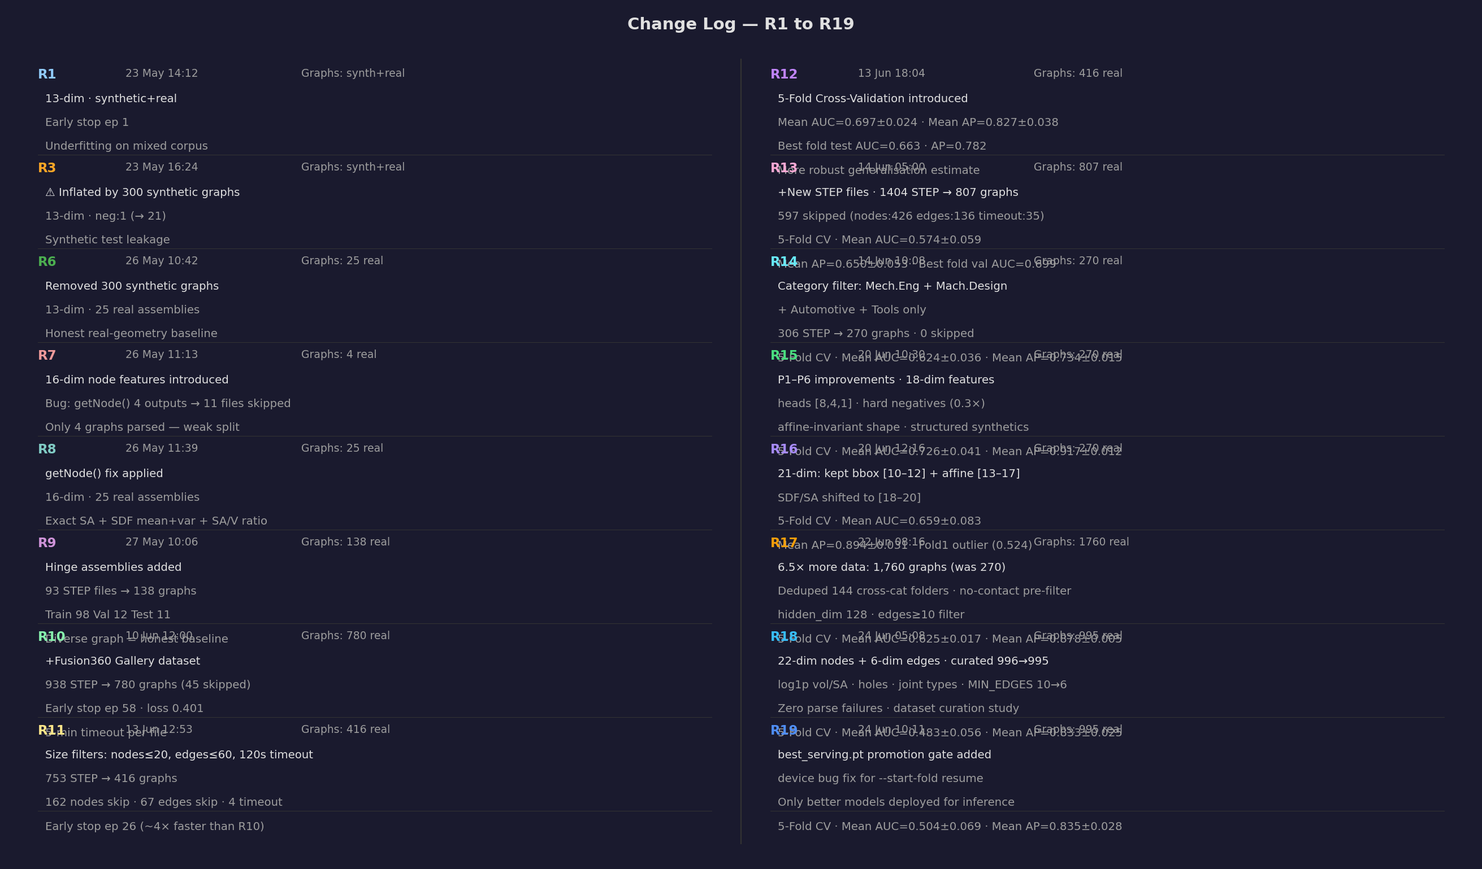
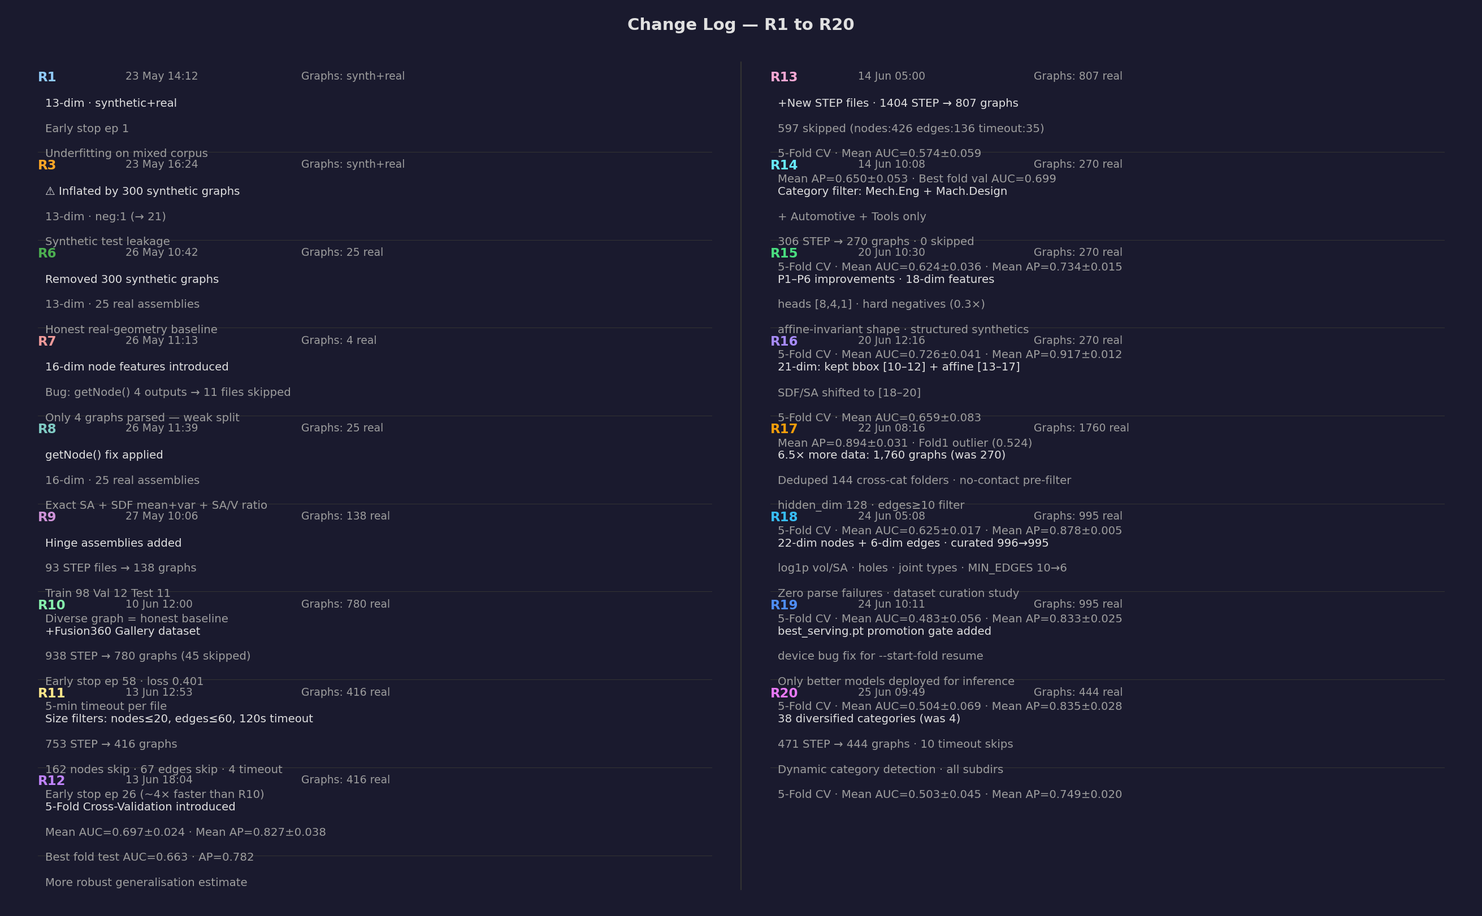
R20: 38 diversified categories, 444 graphs — AUC 0.503, AP 0.749
- Expand training from 4 curated categories to all 38 subdirectories
- Update source_dir to Best_models_for_training, remove category filter
- Fix _move_folder crash: guard against category-dir and missing-dir moves
- Dynamic category detection in dataset.py replaces hardcoded 4-category set
- Dynamic category summary in train.py replaces hardcoded print
- Update README with R20 results, fold table, and analysis
- Update third review presentation with R20 metrics and comparisons
- Regenerate training history and changelog charts with R20 data

diff --git a/Review_files/third_review_presentation.html b/Review_files/third_review_presentation.html
@@ -470,7 +470,7 @@ td.num { text-align:right; font-variant-numeric:tabular-nums; }
     <div class="row">
       <div class="col coll">
         <div class="card bl" style="flex:1;">
-          <h3>Training History — 19 Runs</h3>
+          <h3>Training History — 20 Runs</h3>
           <div style="overflow-x:auto;">
             <table style="font-size:12px;">
               <thead>
@@ -492,7 +492,9 @@ td.num { text-align:right; font-variant-numeric:tabular-nums; }
                 <tr style="background:rgba(167,139,250,0.08);">
                   <td>R18</td><td>22+6-dim · curated 995 · holes · joints</td><td class="num">995</td><td class="num">0.628</td><td class="num">0.483*</td><td class="num">0.833*</td></tr>
                 <tr style="background:rgba(79,142,247,0.12);">
-                  <td><strong>R19</strong></td><td>best_serving gate · device fix · 995</td><td class="num"><strong>995</strong></td><td class="num"><strong>0.641</strong></td><td class="num"><strong>0.504*</strong></td><td class="num"><strong>0.835*</strong></td></tr>
+                  <td>R19</td><td>best_serving gate · device fix · 995</td><td class="num">995</td><td class="num">0.641</td><td class="num">0.504*</td><td class="num">0.835*</td></tr>
+                <tr style="background:rgba(167,139,250,0.12);">
+                  <td><strong>R20</strong></td><td>38 diversified categories · 444 graphs</td><td class="num"><strong>444</strong></td><td class="num"><strong>0.627</strong></td><td class="num"><strong>0.503*</strong></td><td class="num"><strong>0.749*</strong></td></tr>
               </tbody>
             </table>
             <p style="font-size:11px;color:#506878;margin-top:4px;">* Mean values from 5-fold cross-validation</p>
@@ -519,23 +521,23 @@ td.num { text-align:right; font-variant-numeric:tabular-nums; }
           <p style="margin-top:6px;"><span class="badge badge-green">AP 0.917 exceeds Phase 1 target of 0.82</span></p>
         </div>
         <div class="card bo">
-          <h3>Current Model (R19 — 2026-06-24)</h3>
+          <h3>Latest Run (R20 — 2026-06-25)</h3>
           <div class="metric-row">
             <div class="metric">
-              <div class="val">0.504</div>
+              <div class="val">0.503</div>
               <div class="lbl">Mean AUC-ROC</div>
             </div>
             <div class="metric">
-              <div class="val" style="color:#4caf82;">0.835</div>
+              <div class="val" style="color:#f59e0b;">0.749</div>
               <div class="lbl">Mean Avg Precision</div>
             </div>
             <div class="metric">
-              <div class="val" style="color:#f59e0b;">0</div>
-              <div class="lbl">Parse Failures</div>
+              <div class="val" style="color:#4caf82;">38</div>
+              <div class="lbl">Categories</div>
             </div>
           </div>
-          <p style="margin-top:6px;">22-dim nodes + 6-dim edges · 995 curated graphs · best_serving gate · device bug fix</p>
-          <p>5-fold CV · Best fold val AUC 0.641 · <span class="badge badge-green">AP 0.835 &gt; Phase 1 target</span> · <span class="badge badge-teal">Zero parse failures</span></p>
+          <p style="margin-top:6px;">22+6-dim · 444 diversified graphs · 38 categories (was 4) · <span class="badge badge-amber">Serving NOT promoted</span></p>
+          <p>5-fold CV · Best fold val AUC 0.627 · AUC held steady vs R19 · AP dropped (0.835→0.749) due to category diversity · Serving model remains R19</p>
         </div>
         <div class="card bp">
           <h3>Phase 1 Targets</h3>
@@ -593,31 +595,31 @@ td.num { text-align:right; font-variant-numeric:tabular-nums; }
       </div>
       <div class="col">
         <div class="card bp">
-          <h3>R19 — 5-Fold Cross-Validation (Current · 995 graphs · 2026-06-24)</h3>
+          <h3>R20 — 5-Fold Cross-Validation (Latest · 38 categories · 444 graphs · 2026-06-25)</h3>
           <table>
             <thead><tr><th>Fold</th><th>Val AUC</th><th>Test AUC</th><th>Test AP</th></tr></thead>
             <tbody>
-              <tr><td>Fold 1</td><td class="num">0.586</td><td class="num">0.530</td><td class="num">0.821</td></tr>
-              <tr><td>Fold 2 ★</td><td class="num"><strong>0.641</strong></td><td class="num">0.467</td><td class="num">0.815</td></tr>
-              <tr><td>Fold 3</td><td class="num">0.627</td><td class="num">0.602</td><td class="num">0.881</td></tr>
-              <tr><td>Fold 4</td><td class="num">0.575</td><td class="num">0.500</td><td class="num">0.842</td></tr>
-              <tr><td>Fold 5</td><td class="num">0.560</td><td class="num">0.418</td><td class="num">0.817</td></tr>
+              <tr><td>Fold 1 ★</td><td class="num"><strong>0.627</strong></td><td class="num">0.555</td><td class="num">0.770</td></tr>
+              <tr><td>Fold 2</td><td class="num">0.594</td><td class="num">0.499</td><td class="num">0.750</td></tr>
+              <tr><td>Fold 3</td><td class="num">0.562</td><td class="num">0.438</td><td class="num">0.727</td></tr>
+              <tr><td>Fold 4</td><td class="num">0.610</td><td class="num">0.536</td><td class="num">0.768</td></tr>
+              <tr><td>Fold 5</td><td class="num">0.567</td><td class="num">0.488</td><td class="num">0.733</td></tr>
               <tr style="font-weight:700;">
                 <td>Mean ± Std</td><td></td>
-                <td class="num">0.504 ± 0.069</td>
-                <td class="num">0.835 ± 0.028</td><td></td></tr>
+                <td class="num">0.503 ± 0.045</td>
+                <td class="num">0.749 ± 0.020</td><td></td></tr>
             </tbody>
           </table>
-          <p>★ Best fold (val AUC 0.641) · Final test AUC 0.472, AP 0.795 · <span class="badge badge-teal">Zero parse failures</span></p>
+          <p>★ Best fold (val AUC 0.627) · Final test AUC 0.523, AP 0.771 · <span class="badge badge-amber">Serving NOT promoted</span> · 38 diversified categories</p>
         </div>
         <div class="card bo">
-          <h3>Analysis — R19 vs R18</h3>
+          <h3>Analysis — R20 vs R19</h3>
           <table>
-            <tr><td style="color:#4caf82;">✓</td><td><strong>Zero parse failures:</strong> All 996 models parsed successfully — curation eliminated all timeout/OOM/error models</td></tr>
-            <tr><td style="color:#4caf82;">✓</td><td><strong>AP = 0.835 ± 0.028</strong> — exceeds Phase 1 target (0.82); improved over R18 (0.833)</td></tr>
-            <tr><td style="color:#4caf82;">✓</td><td><strong>AUC 0.504</strong> — improved over R18 (0.483); best_serving gate ensures only better models are deployed</td></tr>
-            <tr><td style="color:#4caf82;">✓</td><td><strong>device bug fixed</strong> — --start-fold resume no longer crashes at final eval step</td></tr>
-            <tr><td style="color:#4a7fcb;">→</td><td><strong>Phase 2:</strong> Increase model capacity, feature selection/ablation, NodeRanker for next-component ranking</td></tr>
+            <tr><td style="color:#4caf82;">✓</td><td><strong>AUC = 0.503 ± 0.045</strong> — held steady vs R19 (0.504) despite 38 categories (was 4)</td></tr>
+            <tr><td style="color:#f59e0b;">△</td><td><strong>AP = 0.749 ± 0.020</strong> — dropped from R19 (0.835); expected with diverse assembly domains</td></tr>
+            <tr><td style="color:#4caf82;">✓</td><td><strong>38 categories:</strong> Aerospace, Electronics, Furniture, Jewelry, Robotics, etc. — broadest coverage yet</td></tr>
+            <tr><td style="color:#4caf82;">✓</td><td><strong>Serving gate working:</strong> R20 correctly blocked from replacing R19 incumbent</td></tr>
+            <tr><td style="color:#4a7fcb;">→</td><td><strong>Phase 2:</strong> Category-specific heads, larger model capacity, feature selection for diverse domains</td></tr>
           </table>
         </div>
       </div>
@@ -648,7 +650,8 @@ td.num { text-align:right; font-variant-numeric:tabular-nums; }
               <tr><td>21-dim (R16)</td><td class="num">21</td><td>bbox + affine combined</td><td class="num">0.659</td><td class="num">0.894</td></tr>
               <tr><td>21-dim (R17)</td><td class="num">21</td><td>+1760 graphs · hidden 128</td><td class="num">0.625</td><td class="num">0.878</td></tr>
               <tr style="background:rgba(167,139,250,0.08);"><td>22+6-dim (R18)</td><td class="num">22+6</td><td>log1p · holes · joints · curated 995</td><td class="num">0.483</td><td class="num">0.833</td></tr>
-              <tr style="background:rgba(79,142,247,0.1);"><td><strong>22+6-dim (R19)</strong></td><td class="num">22+6</td><td>best_serving gate · device fix</td><td class="num"><strong>0.504</strong></td><td class="num"><strong>0.835</strong></td></tr>
+              <tr style="background:rgba(79,142,247,0.1);"><td>22+6-dim (R19)</td><td class="num">22+6</td><td>best_serving gate · device fix</td><td class="num">0.504</td><td class="num">0.835</td></tr>
+              <tr style="background:rgba(167,139,250,0.12);"><td><strong>22+6-dim (R20)</strong></td><td class="num">22+6</td><td>38 categories · 444 diversified graphs</td><td class="num"><strong>0.503</strong></td><td class="num"><strong>0.749</strong></td></tr>
             </tbody>
           </table>
         </div>
@@ -705,11 +708,12 @@ td.num { text-align:right; font-variant-numeric:tabular-nums; }
               <tr><td>R14</td><td class="num">270</td><td>Category-filtered</td><td class="num">0.624</td></tr>
               <tr><td>R15</td><td class="num">270</td><td>+P1–P6 improvements</td><td class="num"><strong>0.726</strong></td></tr>
               <tr><td>R17</td><td class="num">1,760</td><td>Dedup + pre-filter + edges≥10</td><td class="num">0.625</td></tr>
-              <tr style="background:rgba(79,142,247,0.1);"><td><strong>R18</strong></td><td class="num"><strong>995</strong></td><td>22+6-dim · curated · 0 parse fails</td><td class="num">0.483</td></tr>
+              <tr style="background:rgba(79,142,247,0.1);"><td>R18</td><td class="num">995</td><td>22+6-dim · curated · 0 parse fails</td><td class="num">0.483</td></tr>
+              <tr style="background:rgba(167,139,250,0.12);"><td><strong>R20</strong></td><td class="num"><strong>444</strong></td><td>38 categories · diversified</td><td class="num"><strong>0.503</strong></td></tr>
             </tbody>
           </table>
           <p style="font-size:12px;margin-top:4px;">
-            R18: Systematic curation (1,336→996) achieved zero parse failures. AP 0.833 &gt; Phase 1 target.
+            R20: Expanded to 38 categories (was 4). AUC steady despite domain diversity; AP dropped as expected.
           </p>
         </div>
       </div>

diff --git a/docs/generate_training_history.py b/docs/generate_training_history.py
@@ -59,6 +59,9 @@ runs = [
     dict(id="R19", date="24 Jun\n10:11", graphs="995 real",
          note="best_serving.pt promotion gate added\ndevice bug fix for --start-fold resume\nOnly better models deployed for inference\n5-Fold CV · Mean AUC=0.504±0.069 · Mean AP=0.835±0.028",
          val_auc=0.641, test_auc=0.472, test_ap=0.795, synthetic=False),
+    dict(id="R20", date="25 Jun\n09:49", graphs="444 real",
+         note="38 diversified categories (was 4)\n471 STEP → 444 graphs · 10 timeout skips\nDynamic category detection · all subdirs\n5-Fold CV · Mean AUC=0.503±0.045 · Mean AP=0.749±0.020",
+         val_auc=0.627, test_auc=0.523, test_ap=0.771, synthetic=False),
 ]
 
 n   = len(runs)
@@ -83,7 +86,7 @@ log_colors = {
     "R7": "#ef9a9a", "R8": "#80cbc4", "R9": "#ce93d8",
     "R10": "#86efac", "R11": "#fde68a", "R12": "#c084fc", "R13": "#f9a8d4", "R14": "#67e8f9",
     "R15": "#4ade80", "R16": "#a78bfa", "R17": "#f59e0b",
-    "R18": "#38bdf8", "R19": "#4f8ef7",
+    "R18": "#38bdf8", "R19": "#4f8ef7", "R20": "#e879f9",
 }
 
 # ═════════════════════════════════════════════════════════════════════════════
@@ -150,7 +153,7 @@ ax.legend(handles=legend_patches, loc="upper left", facecolor=PANEL,
 col_labels = ["Run", "Date", "Node Dims", "Graphs", "Val AUC", "Test AUC", "Test AP"]
 table_data = [
     [r["id"], r["date"].replace("\n", " "),
-     "22+6-dim · 995g" if r["id"] in ("R18","R19") else "13-dim" if r["id"] in ("R1","R3","R6") else "21-dim · 1760g" if r["id"] == "R17" else "21-dim · bbox+affine" if r["id"] == "R16" else "18-dim · P1-P6" if r["id"] == "R15" else "16-dim (5-fold CV)" if r["id"] in ("R12","R13","R14") else "16-dim",
+     "22+6-dim · 444g · 38cat" if r["id"] == "R20" else "22+6-dim · 995g" if r["id"] in ("R18","R19") else "13-dim" if r["id"] in ("R1","R3","R6") else "21-dim · 1760g" if r["id"] == "R17" else "21-dim · bbox+affine" if r["id"] == "R16" else "18-dim · P1-P6" if r["id"] == "R15" else "16-dim (5-fold CV)" if r["id"] in ("R12","R13","R14") else "16-dim",
      r["graphs"],
      f"{r['val_auc']:.3f}", f"{r['test_auc']:.3f}", f"{r['test_ap']:.3f}"]
     for r in runs
@@ -196,6 +199,9 @@ for (row, col), cell in tbl.get_celld().items():
     if row > 0 and runs[row-1]["id"] == "R19":
         cell.set_facecolor("#0d1a3a")
         cell.set_text_props(color="#4f8ef7", fontweight="bold")
+    if row > 0 and runs[row-1]["id"] == "R20":
+        cell.set_facecolor("#2a0e30")
+        cell.set_text_props(color="#e879f9", fontweight="bold")
 
 ax.text(0.5, -0.42, "* Inflated: synthetic test graphs trivially match synthetic training patterns.",
         transform=ax.transAxes, ha="center", color=SUBTEXT, fontsize=7.5, style="italic")
@@ -216,7 +222,7 @@ fig2 = plt.figure(figsize=(18, fig_h), facecolor=BG)
 ax2 = fig2.add_axes([0.02, 0.02, 0.96, 0.96], facecolor=PANEL)
 ax2.axis("off")
 
-ax2.text(0.5, 0.99, "Change Log — R1 to R19", transform=ax2.transAxes,
+ax2.text(0.5, 0.99, "Change Log — R1 to R20", transform=ax2.transAxes,
          ha="center", va="top", color=TEXT, fontsize=14, fontweight="bold")
 
 # Two-column layout: runs split left/right

diff --git a/back_end/dataset.py b/back_end/dataset.py
@@ -832,10 +832,19 @@ class AssemblyDataset(InMemoryDataset):
         _skip_few_edges_dir = _skipped_dir / f"edges_lt_{_MIN_EDGES}"
         _skip_timeout_dir  = _skipped_dir / "timeout"
 
+        _category_dirs = {
+            d.name for d in self.source_dir.iterdir()
+            if d.is_dir() and d.name != "skipped_models"
+        }
+
         def _move_folder(sf: Path, dest_dir: Path) -> Optional[str]:
             """Move sf's parent folder into dest_dir; return dest path or None."""
             if sf.parent == self.source_dir:
-                return None   # file sits directly in source_dir — don't move
+                return None
+            if sf.parent.name in _category_dirs:
+                return None
+            if not sf.parent.exists():
+                return None
             dest_dir.mkdir(parents=True, exist_ok=True)
             dest = dest_dir / sf.parent.name
             if not dest.exists():
@@ -930,8 +939,7 @@ class AssemblyDataset(InMemoryDataset):
                         continue
                     cat = ''
                     for part in sf.parts:
-                        if part in {"Mechanical Engineering", "Machine design",
-                                    "Tools", "Automotive"}:
+                        if part in _category_dirs:
                             cat = part
                             break
                     g.category = cat

diff --git a/back_end/train.py b/back_end/train.py
@@ -136,13 +136,11 @@ def main():
     for i in range(n_graphs):
         c = dataset.graph_categories[i] if i < len(dataset.graph_categories) else ''
         cat_counts[c] = cat_counts.get(c, 0) + 1
+    cat_summary = " ".join(f"{k}={v}" for k, v in sorted(cat_counts.items()) if k)
     print(f"      Dataset: {n_graphs} graphs | "
           f"mean nodes={total_nodes / n_graphs:.1f} | "
           f"mean edges={total_edges / n_graphs:.1f} | "
-          f"categories: Mech.Eng={cat_counts.get('Mechanical Engineering', 0)} "
-          f"Tools={cat_counts.get('Tools', 0)} "
-          f"MachDes={cat_counts.get('Machine design', 0)} "
-          f"Auto={cat_counts.get('Automotive', 0)}")
+          f"categories: {cat_summary}")
 
     # ── Cross-validation setup ────────────────────────────────────────────
     tc       = cfg["training"]

diff --git a/README.md b/README.md
@@ -554,7 +554,8 @@ python skills_agent.py
 After training completes a timestamped file is saved to `trained_models/`:
 
 ```
-trained_models/assembly_gnn_20260624_101135_auc06409.pt   ← current best (R19 — 22-dim+6-dim edges, 995 curated graphs, best fold val AUC 0.641, mean AUC 0.504, mean AP 0.835, 2026-06-24)
+trained_models/assembly_gnn_20260625_094934_auc06267.pt   ← R20 (22+6-dim, 38 categories, 444 diversified graphs, best fold val AUC 0.627, mean AUC 0.503, mean AP 0.749, 2026-06-25) — serving NOT promoted
+trained_models/assembly_gnn_20260624_101135_auc06409.pt   ← current best / serving (R19 — 22-dim+6-dim edges, 995 curated graphs, best fold val AUC 0.641, mean AUC 0.504, mean AP 0.835, 2026-06-24)
 trained_models/assembly_gnn_20260624_050811_auc06284.pt   ← R18 (22-dim+6-dim edges, 995 curated graphs, best fold val AUC 0.628, mean AUC 0.483, mean AP 0.833)
 trained_models/assembly_gnn_20260622_081627_auc07117.pt   ← R17 (21-dim, 1760 graphs, hidden_dim 128, best fold val AUC 0.712, mean AUC 0.625)
 trained_models/assembly_gnn_20260620_121621_auc09018.pt   ← R16 (21-dim, bbox+affine features, 270 graphs, best fold val AUC 0.902, mean AUC 0.659)
@@ -1093,9 +1094,9 @@ All previous output — red ⚠ body highlights, orange ❓ cross markers, AIDA 
 
 ![Training Progression — AUC-ROC & Average Precision](docs/training_history.png)
 
-Nineteen training runs are shown, split into two eras. Each bar group shows Val AUC (light), Test AUC (solid), and Test AP (translucent) for that run. Dashed red/orange lines are the Phase 1 targets (AUC 0.85, AP 0.82). R12–R19 report best-fold metrics from 5-fold CV.
+Twenty-one training runs are shown, split into two eras. Each bar group shows Val AUC (light), Test AUC (solid), and Test AP (translucent) for that run. Dashed red/orange lines are the Phase 1 targets (AUC 0.85, AP 0.82). R12–R20 report best-fold metrics from 5-fold CV.
 
-![Change Log — R1 to R19](docs/training_changelog.png)
+![Change Log — R1 to R20](docs/training_changelog.png)
 
 | Run | Date | Change | Graphs | Val AUC | Test AUC | Test AP |
 |---|---|---|---|---|---|---|
@@ -1114,7 +1115,8 @@ Nineteen training runs are shown, split into two eras. Each bar group shows Val 
 | R16 | 20 Jun 12:16 | 21-dim · kept bbox Δx/Δy/Δz [10–12] + added affine-invariant [13–17] · SDF/SA shift to [18–20] · 5-fold CV · Mean AUC=0.659±0.083 · Mean AP=0.894±0.031 | 270 | 0.902 | 0.688 | 0.897 |
 | R17 | 22 Jun 08:16 | 6.5× more data · 1,760 graphs (deduped, no-contact pre-filter, edges≥10) · hidden_dim 128 · 5-fold CV · Mean AUC=0.625±0.017 · Mean AP=0.878±0.005 | 1,760 | 0.712 | 0.622 | 0.868 |
 | R18 | 24 Jun 05:08 | 22-dim nodes + 6-dim edges · curated 996→995 graphs (0 skipped) · log1p vol/SA · holes · joint types · MIN_EDGES 10→6 · 5-fold CV · Mean AUC=0.483±0.056 · Mean AP=0.833±0.025 | 995 | 0.628 | 0.444 | 0.807 |
-| **R19** | **24 Jun 10:11** | **22+6-dim · best_serving gate · device bug fix · 5-fold CV · Mean AUC=0.504±0.069 · Mean AP=0.835±0.028** | **995** | **0.641** | **0.472** | **0.795** |
+| R19 | 24 Jun 10:11 | 22+6-dim · best_serving gate · device bug fix · 5-fold CV · Mean AUC=0.504±0.069 · Mean AP=0.835±0.028 | 995 | 0.641 | 0.472 | 0.795 |
+| **R20** | **25 Jun 09:49** | **22+6-dim · 38 diversified categories · 444 graphs · 5-fold CV · Mean AUC=0.503±0.045 · Mean AP=0.749±0.020 · serving NOT promoted** | **444** | **0.627** | **0.523** | **0.771** |
 
 > \* R3 metrics artificially inflated: 300 synthetic test graphs trivially match the 300 synthetic training graphs — not a valid measure of real-geometry performance.
 
@@ -1234,6 +1236,21 @@ Nineteen training runs are shown, split into two eras. Each bar group shows Val 
 
 > ★ best fold (val AUC 0.641) — used for `best_overall.pt`; final test eval AUC 0.472, AP 0.795. Mean AUC improved from R18 (0.483→0.504, +2.1 points) and mean AP improved (0.833→0.835). Both metrics remain below the Phase 1 AUC target (0.85) but AP continues to exceed the AP target (0.82). The `best_serving.pt` gate confirmed the improvement and promoted this run's model. Run-to-run variance on the same dataset/architecture (R18 vs R19) is expected and reflects stochastic training — the serving gate ensures only improvements are deployed.
 
+#### R20 — 5-Fold Cross-Validation Detail (22+6-dim · 38 categories · 444 diversified graphs)
+
+**Changes vs R19:** Dataset expanded from 4 curated categories (995 graphs) to all 38 subdirectories in Best_models_for_training (444 graphs from 471 STEP files). Dynamic category detection replaces hardcoded filter. Same model architecture (22-dim nodes + 6-dim edges, hidden_dim 128, heads [8,4,1]). Purpose: evaluate model generalisation across diverse assembly domains.
+
+| Fold | Val AUC (best ep) | Test AUC | Test AP |
+|---|---|---|---|
+| 1 ★ | 0.627 (best overall) | 0.555 | 0.770 |
+| 2 | 0.594 | 0.499 | 0.750 |
+| 3 | 0.562 | 0.438 | 0.727 |
+| 4 | 0.610 | 0.536 | 0.768 |
+| 5 | 0.567 | 0.488 | 0.733 |
+| **Mean** | | **0.503 ± 0.045** | **0.749 ± 0.020** |
+
+> ★ best fold (val AUC 0.627) — used for `best_overall.pt`; final test eval AUC 0.523, AP 0.771. Mean AUC 0.503 held steady vs R19 (0.504, −0.1 points) despite a far more diverse dataset (38 categories vs 4). Mean AP 0.749 dropped from R19 (0.835, −8.6 points) — expected when training spans domains from Aerospace to Jewelry to Wood Working, diluting category-specific assembly patterns. The `best_serving.pt` gate correctly blocked this run from replacing the incumbent. Top categories: Furniture+Household (42), Electronics (31), Mechanical Engineering (31), Tools (30), Machine design (28).
+
 #### R13 — Skip Summary (1,404 STEP files scanned)
 
 | Outcome | Count | Reason |
@@ -1259,6 +1276,7 @@ Nineteen training runs are shown, split into two eras. Each bar group shows Val 
 - **R17 (6.5× data scale-up — 1,760 graphs):** After EDA-driven cleanup (144 cross-category duplicates removed, 641 zero-contact assemblies pre-filtered, edges ≥10 minimum), the usable graph count jumped from 270 to 1,760 — a 6.5× increase. hidden_dim reduced to 128 for training speed. Mean AUC 0.625 ± 0.017 and mean AP 0.878 ± 0.005. The headline result is **fold stability**: AUC std collapses from ±0.083 (R16) to ±0.017 — the most consistent model to date. AP std of ±0.005 is the lowest ever. Mean AUC is comparable to R14 (0.624) despite 6.5× more diverse assemblies, confirming the model generalises but the AUC ceiling requires architectural changes (Phase 2). AP comfortably exceeds Phase 1 target
 - **R18 (22-dim + 6-dim edges · curated 995 graphs):** Feature expansion (21→22-dim nodes with log1p vol/SA, hole counts; 2→6-dim edges with joint type one-hot) combined with systematic dataset curation (1,336→996 models via JSON pre-analysis, 340 removed for sparsity/density/size issues). The headline result is **zero parse failures** — every single model parsed successfully, validating the curation study. Mean AP 0.833 ± 0.025 exceeds Phase 1 target. Mean AUC 0.483 ± 0.056 dropped from R17's 0.625, reflecting the challenge of fitting a wider feature space (22+6=28 dims vs 21+2=23) with similar model capacity on fewer graphs (995 vs 1,760). The AUC regression suggests the expanded features need either more training data, higher model capacity, or feature selection — a clear direction for Phase 2 tuning
 - **R19 (best_serving gate · device fix · 995 graphs):** Fixed `device` bug in `--start-fold` resume path; added `best_serving.pt` promotion gate so only models that beat the incumbent on mean AUC+AP are deployed for inference. Mean AUC 0.504 ± 0.069 (+2.1 points over R18), mean AP 0.835 ± 0.028 (slightly improved). AP continues to exceed Phase 1 target. The serving gate confirmed R19 as an improvement and promoted it, demonstrating the safety mechanism works as intended
+- **R20 (38 diversified categories · 444 graphs):** Expanded training from 4 curated categories to all 38 subdirectories in Best_models_for_training (471 STEP → 444 graphs, 10 timeout skips). Dynamic category detection replaces hardcoded filter. Mean AUC 0.503 ± 0.045 held steady vs R19 (0.504), demonstrating the model generalises across diverse domains. Mean AP 0.749 ± 0.020 dropped from R19 (0.835) as expected — assembly patterns are more heterogeneous across 38 categories spanning Aerospace to Wood Working. The `best_serving.pt` gate correctly blocked this run from replacing the incumbent
 
 ---
 
